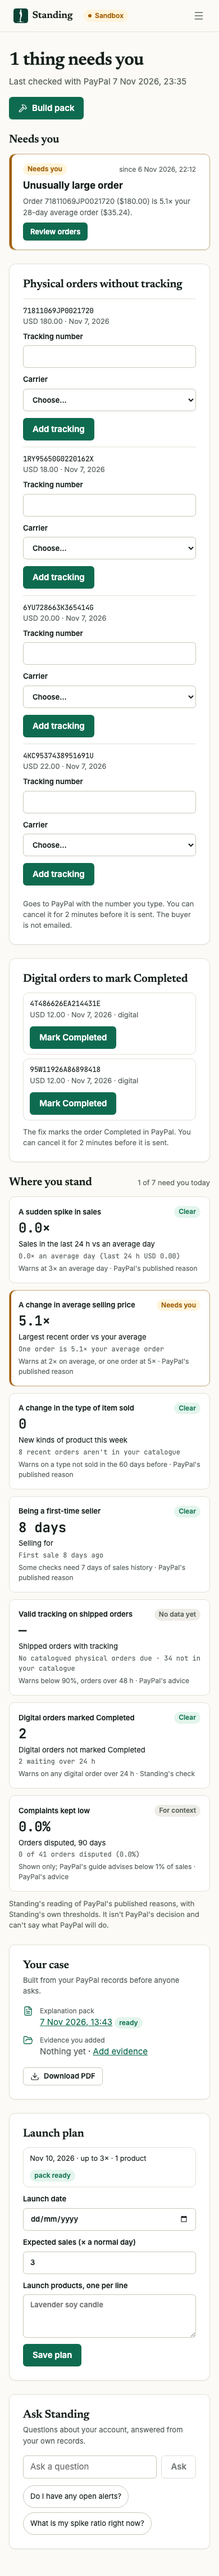
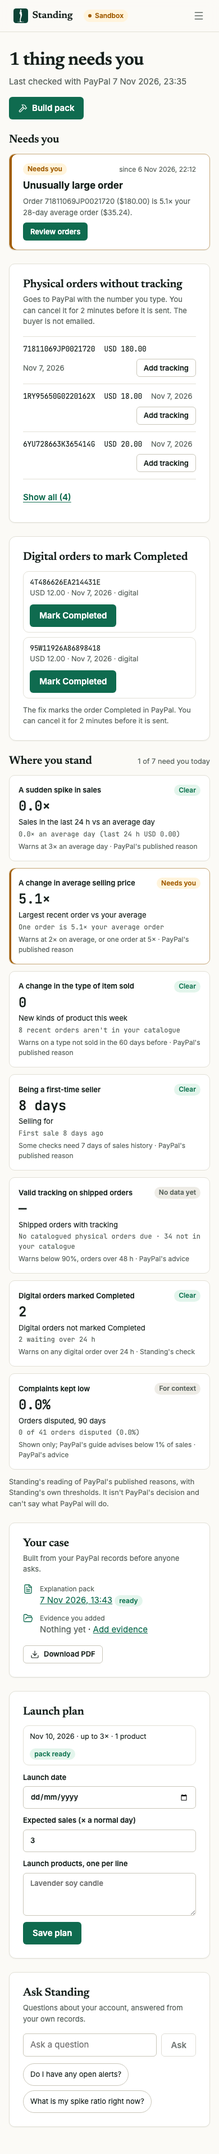
fix: sharper homepage crops, Watch tile fades into its card, compact tracking rows with inline form

diff --git a/src/app/(seller)/dashboard/parts.tsx b/src/app/(seller)/dashboard/parts.tsx
@@ -100,21 +100,34 @@ const CARRIERS = [
 
 /** Physical orders with no tracking: the seller types the number; nothing here ever makes one up. */
 export function TrackingCard({ gaps, onChange }: { gaps: DashboardData["tracking"]; onChange: () => void }) {
+  const [showAll, setShowAll] = useState(false);
+  const shown = showAll ? gaps : gaps.slice(0, 3);
   return (
-    <section className="card" id="tracking" aria-labelledby="tracking-h">
-      <h2 id="tracking-h">Physical orders without tracking</h2>
+    <section className="ui-card" id="tracking" aria-labelledby="tracking-h">
+      <header className="ui-card-head">
+        <div>
+          <h2 id="tracking-h" className="ui-card-title">
+            Physical orders without tracking
+          </h2>
+          <p className="ui-card-desc">Goes to PayPal with the number you type. You can cancel it for 2 minutes before it is sent. The buyer is not emailed.</p>
+        </div>
+      </header>
       {gaps.length === 0 ? (
         <p className="muted">No physical orders are waiting for tracking. Orders count once their products are in your catalogue.</p>
       ) : (
-        <div className="rows">
-          {gaps.map((g) => (
-            <TrackingRow key={g.transactionId} gap={g} onChange={onChange} />
-          ))}
-        </div>
+        <>
+          <ul className="trk-list">
+            {shown.map((g) => (
+              <TrackingRow key={g.transactionId} gap={g} onChange={onChange} />
+            ))}
+          </ul>
+          {gaps.length > 3 && (
+            <button type="button" className="trk-more" aria-expanded={showAll} onClick={() => setShowAll((v) => !v)}>
+              {showAll ? "Show fewer" : `Show all (${gaps.length})`}
+            </button>
+          )}
+        </>
       )}
-      <p className="muted small" style={{ marginTop: "0.75rem", marginBottom: 0 }}>
-        Goes to PayPal with the number you type. You can cancel it for 2 minutes before it is sent. The buyer is not emailed.
-      </p>
     </section>
   );
 }
@@ -126,6 +139,7 @@ function TrackingRow({ gap, onChange }: { gap: DashboardData["tracking"][number]
   const [carrier, setCarrier] = useState("");
   const [carrierName, setCarrierName] = useState("");
   const [error, setError] = useState<string | null>(null);
+  const [expanded, setExpanded] = useState(false);
   const open = !fix || fix.status === "cancelled" || fix.status === "failed";
 
   async function start(e: React.FormEvent) {
@@ -143,25 +157,36 @@ function TrackingRow({ gap, onChange }: { gap: DashboardData["tracking"][number]
   }
 
   return (
-    <div className="stack" style={{ paddingBlock: "0.75rem", gap: "0.5rem" }}>
-      <div className="row" style={{ border: 0, padding: 0 }}>
-        <div>
-          <div className="mono">{gap.transactionId}</div>
-          <div className="muted small">
-            {usd(gap.cents)} · {day(gap.at)}
-            {gap.overdue && " · over 48 hours old"}
-          </div>
-        </div>
-        {!open && <FixState q={q} />}
+    <li className="trk-row">
+      <div className="trk-line">
+        <span className="trk-id mono">{gap.transactionId}</span>
+        <span className="trk-amt mono">{usd(gap.cents)}</span>
+        <span className="trk-date muted">{day(gap.at)}</span>
+        {gap.overdue && <span className="badge warn">over 48 h</span>}
+        <span className="trk-action">
+          {!open ? (
+            <FixState q={q} />
+          ) : (
+            <button
+              type="button"
+              className={expanded ? "ui-btn ui-btn-ghost ui-btn-sm" : "ui-btn ui-btn-secondary ui-btn-sm"}
+              aria-expanded={expanded}
+              aria-controls={`trk-${gap.transactionId}`}
+              onClick={() => setExpanded((v) => !v)}
+            >
+              <span>{expanded ? "Close" : fix?.status === "cancelled" ? "Add tracking again" : "Add tracking"}</span>
+            </button>
+          )}
+        </span>
       </div>
       {fix?.summary && waiting && <div className="small">{fix.summary}</div>}
       {fix?.status === "failed" && <div className="small error">PayPal refused that number. Check it and try again.</div>}
-      {open && (
-        <form className="form" onSubmit={start}>
+      {open && expanded && (
+        <form className="form trk-form" id={`trk-${gap.transactionId}`} onSubmit={start}>
           <div className="form-row">
             <label>
               Tracking number
-              <input required maxLength={64} pattern="[A-Za-z0-9\\-]+" title="Letters, digits and dashes only" value={number} onChange={(e) => setNumber(e.target.value)} />
+              <input required autoFocus maxLength={64} pattern="[A-Za-z0-9\\-]+" title="Letters, digits and dashes only" value={number} onChange={(e) => setNumber(e.target.value)} />
             </label>
             <label>
               Carrier
@@ -193,7 +218,7 @@ function TrackingRow({ gap, onChange }: { gap: DashboardData["tracking"][number]
           )}
         </form>
       )}
-    </div>
+    </li>
   );
 }
 

diff --git a/src/app/page.tsx b/src/app/page.tsx
@@ -81,14 +81,14 @@ export default function Home() {
                   <span />
                   <span />
                 </div>
-                <Image src={hero} alt="Standing's dashboard: what needs the seller, and where they stand on each reason PayPal publishes" priority sizes="(min-width: 1024px) 640px, 100vw" />
+                <Image unoptimized src={hero} alt="Standing's dashboard: what needs the seller, and where they stand on each reason PayPal publishes" priority sizes="(min-width: 1024px) 640px, 100vw" />
                 <figcaption className="window-label">Sandbox data</figcaption>
               </figure>
               <div className="lp-float lp-float-signal">
-                <Image src={signal} alt="A signal card from the app: Unusually large order, 5.1× the 28-day average order" sizes="340px" />
+                <Image unoptimized src={signal} alt="A signal card from the app: Unusually large order, 5.1× the 28-day average order" sizes="340px" />
               </div>
               <div className="lp-float lp-float-pack">
-                <Image src={packReady} alt="The Your case card from the app, with an explanation pack marked ready" sizes="220px" />
+                <Image unoptimized src={packReady} alt="The Your case card from the app, with an explanation pack marked ready" sizes="220px" />
               </div>
             </div>
           </div>
@@ -157,7 +157,7 @@ export default function Home() {
                 </p>
               </div>
               <div className="lp-tile-shot">
-                <Image src={watch} alt="Standing's 'Where you stand' tiles: each reason PayPal publishes, the seller's figure now and Standing's reading" sizes="(min-width: 900px) 600px, 100vw" />
+                <Image unoptimized src={watch} alt="Standing's 'Where you stand' tiles: each reason PayPal publishes, the seller's figure now and Standing's reading" sizes="(min-width: 900px) 600px, 100vw" />
               </div>
             </article>
             <article className="lp-card lp-tile reveal">
@@ -169,7 +169,7 @@ export default function Home() {
                 <p>What can be fixed safely, such as tracking or marking a digital order Completed, goes through a queue you preview and can cancel.</p>
               </div>
               <div className="lp-tile-shot">
-                <Image src={fix} alt="Standing's orders table: each PayPal payment with its items, tracking and Seller Protection status" sizes="(min-width: 900px) 520px, 100vw" />
+                <Image unoptimized src={fix} alt="Standing's orders table: each PayPal payment with its items, tracking and Seller Protection status" sizes="(min-width: 900px) 520px, 100vw" />
               </div>
             </article>
             <article className="lp-card lp-tile reveal">
@@ -181,7 +181,7 @@ export default function Home() {
                 <p>An explanation pack: your sales curve and a letter where every figure is written by code and cites its evidence.</p>
               </div>
               <div className="lp-tile-shot">
-                <Image src={prove} alt="A cover letter in Standing's explanation pack, with numbered citations to evidence" sizes="(min-width: 900px) 520px, 100vw" />
+                <Image unoptimized src={prove} alt="A cover letter in Standing's explanation pack, with numbered citations to evidence" sizes="(min-width: 900px) 520px, 100vw" />
               </div>
             </article>
           </div>

diff --git a/src/app/site.css b/src/app/site.css
@@ -397,7 +397,7 @@
 }
 @media (min-width: 1024px) {
   .lp-window {
-    transform: perspective(1800px) rotateY(-7deg) rotateX(3deg) rotate(0.6deg);
+    transform: perspective(2000px) rotateY(-6deg) rotateX(2deg);
     transform-origin: 60% 50%;
   }
 }
@@ -596,24 +596,29 @@
   max-width: 34rem;
 }
 .lp-tile-shot {
+  position: relative;
   flex: 1;
-  min-height: 0;
+  min-height: 13rem;
   margin: 0 var(--s-6);
   border: 1px solid var(--line);
   border-bottom: 0;
   border-radius: var(--r-md) var(--r-md) 0 0;
   overflow: hidden;
   background: var(--bg);
-  padding: var(--s-3) var(--s-3) 0;
-  max-height: 15rem;
+  /* The crop runs to the card's bottom edge and fades into it, so there's never an empty gap or a hard cut. */
+  -webkit-mask-image: linear-gradient(to bottom, #000 70%, transparent);
+  mask-image: linear-gradient(to bottom, #000 70%, transparent);
 }
 .lp-tile-big .lp-tile-shot {
-  max-height: 34rem;
+  min-height: 22rem;
 }
 .lp-tile-shot img {
-  display: block;
-  width: 100%;
+  position: absolute;
+  top: var(--s-3);
+  left: var(--s-3);
+  width: calc(100% - 2 * var(--s-3));
   height: auto;
+  display: block;
 }
 
 /* Spike tool card */
@@ -860,7 +865,7 @@
     grid-row: auto;
   }
   .lp-tile-big .lp-tile-shot {
-    max-height: 20rem;
+    min-height: 20rem;
   }
 }
 @media (max-width: 700px) {

diff --git a/src/app/app.css b/src/app/app.css
@@ -713,3 +713,56 @@
     padding-right: var(--s-6);
   }
 }
+
+/* Tracking: one compact row per order; the form opens inline under its row. */
+.trk-list {
+  list-style: none;
+  margin: 0;
+  padding: 0;
+  border-top: 1px solid var(--line);
+}
+.trk-row {
+  padding: var(--s-3) 0;
+  border-bottom: 1px solid var(--line);
+  display: flex;
+  flex-direction: column;
+  gap: var(--s-2);
+}
+.trk-line {
+  display: flex;
+  align-items: center;
+  gap: var(--s-2) var(--s-4);
+  flex-wrap: wrap;
+  min-height: 36px;
+}
+.trk-id {
+  font-size: var(--t-13);
+  min-width: 0;
+  overflow-wrap: anywhere;
+}
+.trk-amt {
+  font-size: var(--t-13);
+}
+.trk-date {
+  font-size: var(--t-13);
+}
+.trk-action {
+  margin-left: auto;
+}
+.trk-form {
+  padding: var(--s-3);
+  border-radius: var(--r-md);
+  background: var(--bg);
+}
+.trk-more {
+  margin-top: var(--s-3);
+  padding: 0;
+  border: 0;
+  background: none;
+  color: var(--accent);
+  font: inherit;
+  font-weight: 600;
+  cursor: pointer;
+  text-decoration: underline;
+  text-underline-offset: 3px;
+}

diff --git a/TESTS.md b/TESTS.md
@@ -1228,3 +1228,15 @@ PayPal orders and captures from the buyer test account; all three **COMPLETED**:
 - Not run: Lighthouse.
 - Gate: typecheck clean, lint 0 errors (1 old warning), **549 tests pass**, build passes. Screenshots:
   `docs/screens/after/home-*`, `trust-*`.
+
+## Screen review fixes (8 Nov 2026)
+
+- Hero and bento images: re-captured at deviceScaleFactor 2 (hero 2560×1600) and now served unoptimized, since the
+  optimiser's quality-75 re-encode softened small UI text; the hero tilt no longer uses an off-axis rotate (which
+  rasterised the text). Watch tile: the crop fills the tile and fades into the card, so there's no empty gap.
+- Dashboard tracking card: one compact row per order (ID, amount, date) with "Add tracking" opening the same form
+  inline; 3 rows, then "Show all (n)". Same request, same fix queue. **Browser check** (Playwright, phone width, no
+  submit): 3 rows, 4 after "Show all (4)"; the form opens with focus on Tracking number and "Close" hides it.
+- Homepage test count: `npm test` today = **549 passed**; `facts.ts` shows 549 and README says 549. **Match.**
+- axe on `/` and `/dashboard`, light and dark: 0 serious/critical. Gate: typecheck clean, lint 0 errors (1 old
+  warning), 549 tests pass, build passes. Screenshots: `home-*` (2×), `dashboard-*`.

diff --git a/BUILDLOG.md b/BUILDLOG.md
@@ -54,3 +54,4 @@
 - The app now has a sidebar with the sandbox account; the dashboard leads with what needs you; the pack reads as a document with citations that jump to their evidence; Ask Standing is a chat; the orders grid is themed.
 - Checks: 537 tests, typecheck, lint, build; axe finds no serious or critical issues on /, /dashboard, /ask, /orders, the pack view and /trust, light and dark.
 - No logic changed. Not added: a Log out link (the app has no logout route).
+- Evening: livelier colours (pine, mint, a marigold accent kept off text by a test), a rebuilt landing page, sharper hero images, and a compact tracking list on the dashboard.
